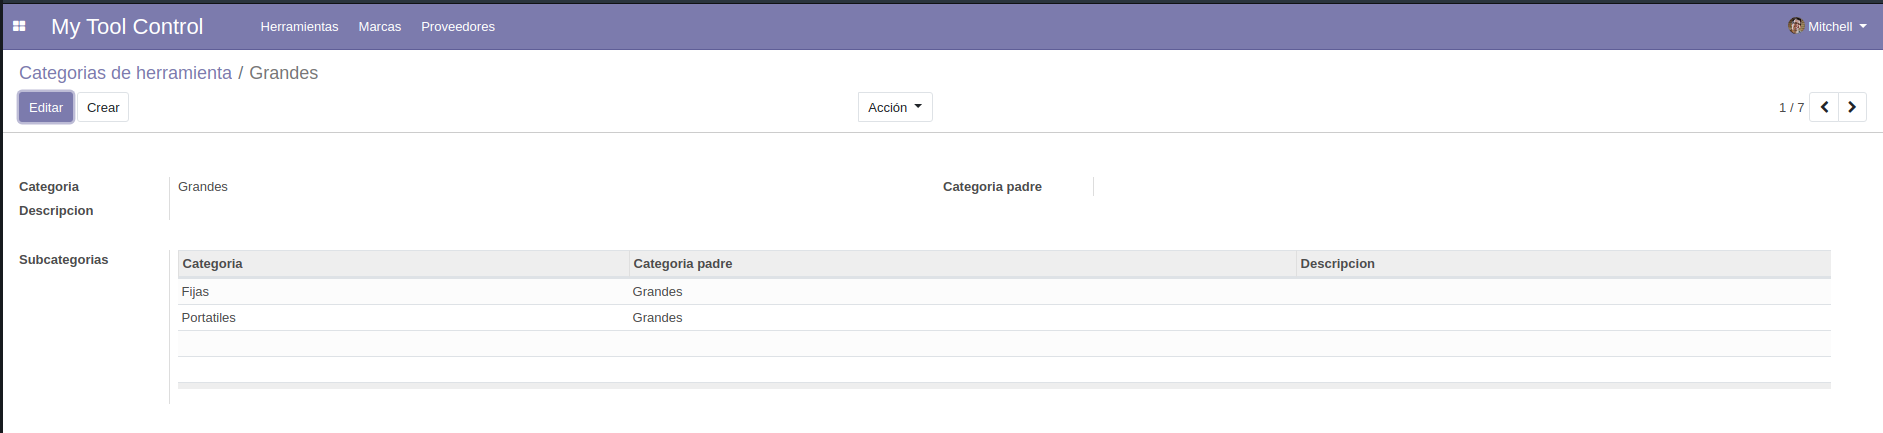
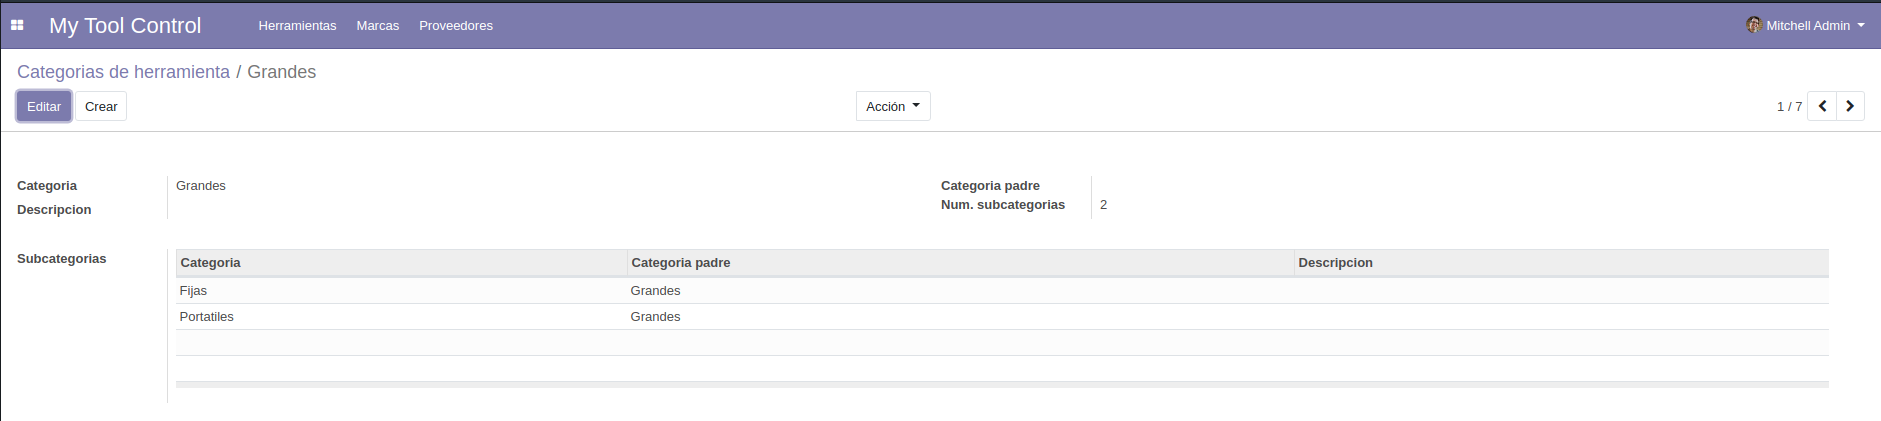
ÚLTIMA MODIFICACIÓN

diff --git a/models/tool.py b/models/tool.py
@@ -23,12 +23,14 @@ class Tool(models.Model):
     brand_id = fields.Many2one('tool.brand', string='Marca', required=True)
     current_user = fields.Many2one('res.users', 'Ultimo usuario', default=lambda self: self.env.user, readonly=True)
     category_id = fields.Many2many('tool.category', string='Categoria', required=True)
+    contar = fields.Integer('Veces usado',readonly=True)
     state = fields.Selection([
         ('available', 'Disponible'),
         ('notavailable', 'Usandose'),
         ('lost', 'Perdida'),
         ('broken', 'Rota')],
         'Estado', default="available")
+
 
     @api.model
     def is_allowed_transition(self, old_state, new_state):
@@ -57,6 +59,7 @@ class Tool(models.Model):
 
     def make_notavailable(self):
         self.change_state('notavailable')
+        self.contar = self.contar + 1
 
     def make_lost(self):
         self.change_state('lost')

diff --git a/models/tool_categ.py b/models/tool_categ.py
@@ -5,7 +5,7 @@ from odoo.exceptions import ValidationError
 
 class ToolCategory(models.Model):
     _name = 'tool.category'
-    _description = 'Tools category'
+    _description = 'Tool category'
     _parent_store = True
     _parent_name = "parent_id"
 
@@ -21,6 +21,18 @@ class ToolCategory(models.Model):
         'tool.category', 'parent_id',
         string='Subcategorias')
     parent_path = fields.Char(index=True)
+
+    contar = fields.Integer(
+        string='Num. subcategorias',
+        compute='_contar',
+        store=False,
+        compute_sudo='False',
+    )
+
+    @api.model
+    def _contar(self):
+        for record in self:
+            record.contar = len(record.child_ids)
 
     @api.constrains('parent_id')
     def _check_hierarchy(self):

diff --git a/models/tool_provider.py b/models/tool_provider.py
@@ -5,7 +5,7 @@ from odoo.exceptions import ValidationError
 
 class Brand(models.Model):
     _name = 'tool.provider'
-    _description = 'Tools brands'
+    _description = 'Tool providers'
 
     name = fields.Char('Proveedor', required=True)
     description = fields.Text('Descripcion')

diff --git a/models/tool_brand.py b/models/tool_brand.py
@@ -5,7 +5,7 @@ from odoo.exceptions import ValidationError
 
 class Brand(models.Model):
     _name = 'tool.brand'
-    _description = 'Tools brands'
+    _description = 'Tool brands'
 
     name = fields.Char('Marca', required=True)
     description = fields.Text('Descripcion')

diff --git a/README.md b/README.md
@@ -38,15 +38,14 @@ git clone https://github.com/IPardelo/tool_control.git
 ![Ferramentas](recursos/img/herramientas.png)
 
 Nesta vista podemos crear e visualizar as ferramentas que temos rexistradas.  
-
-Podemos ver a que categoría pertence cada unha, o estado no que está (**Dispoñible, Usándose, Perdida ou Rota**) e o último usuario e horario ao que fui usado.
+Podemos ver a que categoría pertence cada unha, o estado no que está (**Dispoñible, Usándose, Perdida ou Rota**) e o último usuario e horario ao que foi usado.
 
 *Vista dunha ferramenta*
 ![Ferramentas](recursos/img/vistaherramienta.gif)
 
 Unha vez dentro da ferramenta podemos ver a marca da mesma ou editar o estado cos botóns da cabeceira. O estado ten restriccións lóxicas, como por exemplo unha ferramenta en estado "**roto**" non pode volver a estar "**Disponible**".
 
-Podemos ver como ao cambiar o estado, cambia o "**Último uso**" e o "**Último usuario**".
+Podemos ver como ao cambiar o estado, cambia o "**Último uso**", "**Último usuario**" e se actualiza o número de veces que foi usado ao entrar no estado "**Usándose**".
 
 *****
 
@@ -61,6 +60,7 @@ Podemos ver o nome, a descripción e a categoría pai a que pertence cada unha (
 *Vista dunha categoría*
 ![Categorias](recursos/img/vistacategorias.png)
 
+Unha vez dentro da categoría podemos ver o mesmo que na vista anterior máis a posibilidade de ver as subcategorías e un contador das mesmas.
 *****
 
 ## **Marcas**
@@ -89,6 +89,7 @@ Para ver a descripcion debemos facer click no nome do proveedor e abrirasenos un
 *Vista dun proveedor*
 ![Proveedores](recursos/img/vistaproveedores.png)
 
+Unha vez dentro do proveedor podemos ver tamén todas as marcas de ferramentas que nos suministra e un contador das mesmas.
 
 *****
 
